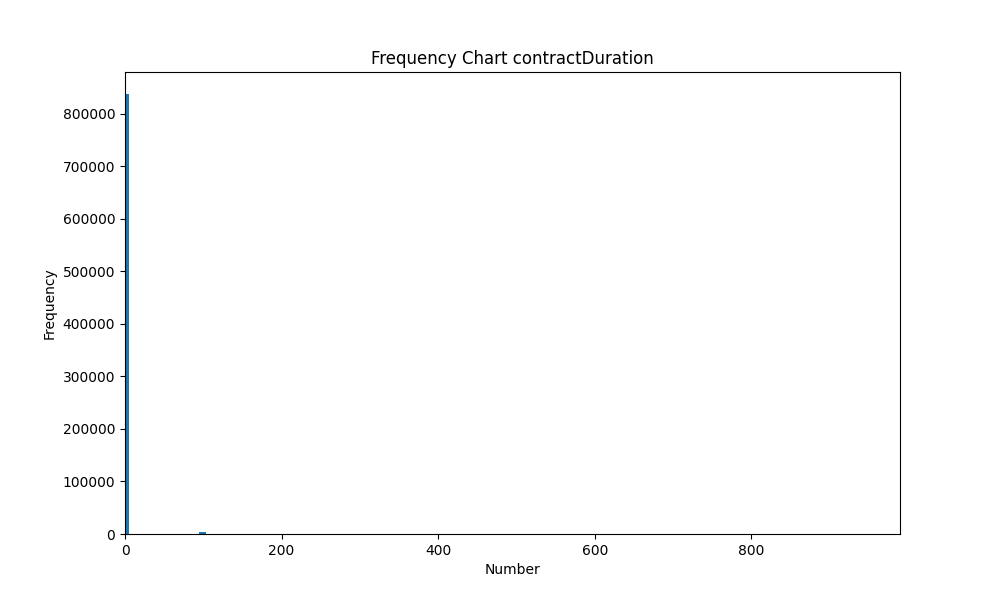
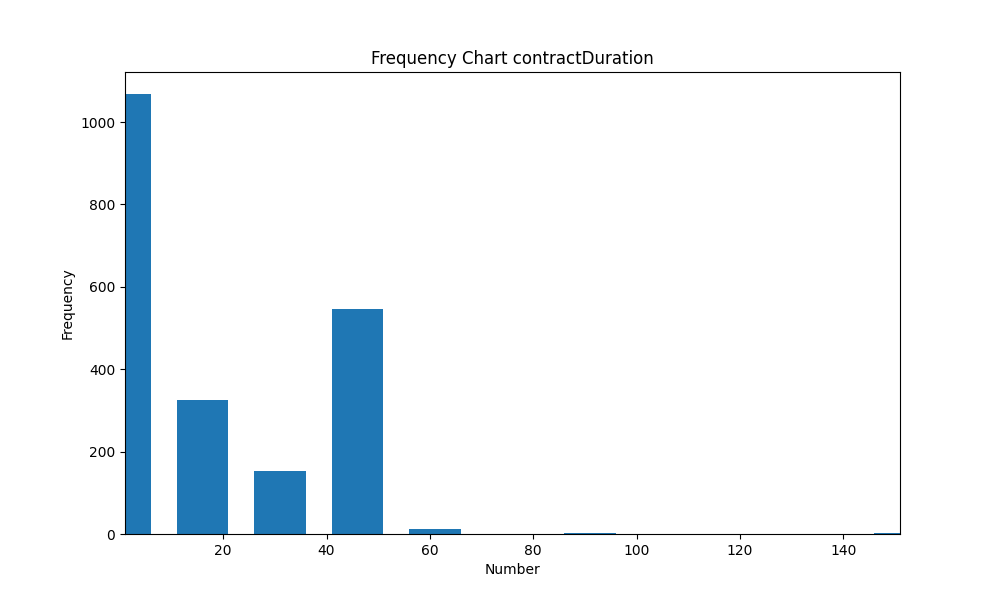
fix: value limits and NA drop

diff --git a/main.py b/main.py
@@ -82,6 +82,15 @@ boolean_columns = [
 integer_columns = [
     "lotsNumber"
 ]
+limit_columns = {
+    "awardEstimatedPrice": 1000000,
+    "awardPrice": 1000000,
+    "contractDuration": 365,
+    "lotsNumber": 300,
+    "publicityDuration": 120,
+    "numberTenders": 120
+}
+
 # Loading the specified CSV files into dataframes
 def load_data():
     for file_name in file_names:
@@ -95,8 +104,13 @@ def load_data():
             if file_name == "Lots":
                 dataframe[boolean_columns] = dataframe[boolean_columns].map(lambda x: True if x == "Y" else False)
                 dataframe[integer_columns] = dataframe[integer_columns].apply(pd.to_numeric, errors='coerce')
+                for col, limit in limit_columns.items():
+                    dataframe[col] = dataframe[col].map(lambda x: x if x is None or pd.isna(x) or (0 <= x <= limit) else None)
 
-            dataframes[file_name] = dataframe
+            na_free = dataframe.dropna()
+            only_na = dataframe[~dataframe.index.isin(na_free.index)]
+            print(only_na.head())
+            dataframes[file_name] = na_free
         else:
             print(f"Le fichier {path} n'existe pas.")
 
@@ -104,19 +118,19 @@ def load_data():
 
 number_lots_columns = [
     # "correctionsNb",
-    # "awardEstimatedPrice",
-    # "awardPrice",
+    "awardEstimatedPrice",
+    "awardPrice",
     "numberTenders",
-    # "lotsNumber",
+    "lotsNumber",
     "numberTendersSme",
-    "contractDuration"
-    # "publicityDuration"
+    "contractDuration",
+    "publicityDuration"
 ]
 
 def data_analysis():
     for number_lots_column in number_lots_columns:
         plt.title(f"{number_lots_column} frequence")
-        data = dataframes["Lots"][number_lots_column]
+        data = pd.to_numeric(dataframes["Lots"][number_lots_column], errors='coerce')
         data = data.dropna().sort_values()
         chart_data = {}
         max_value = int(max(data))
